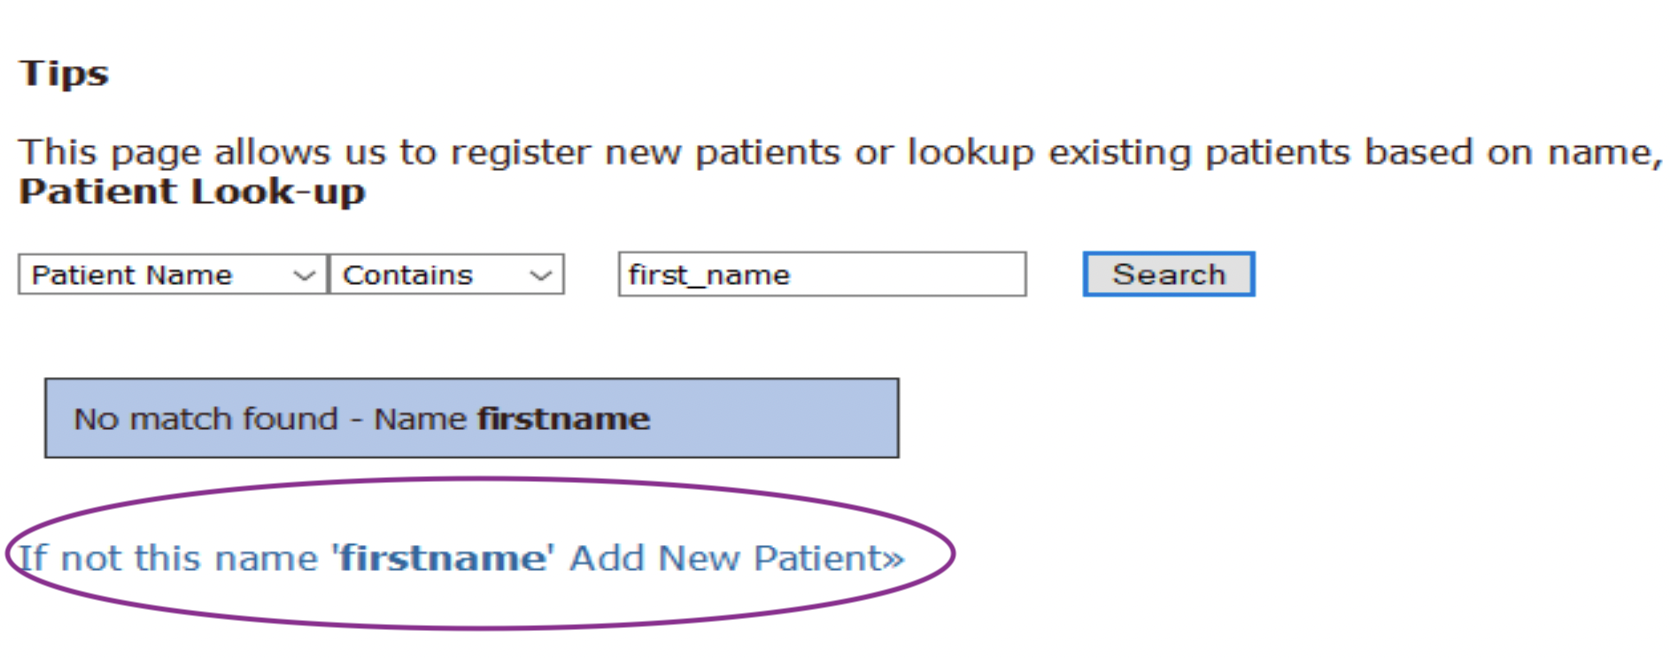
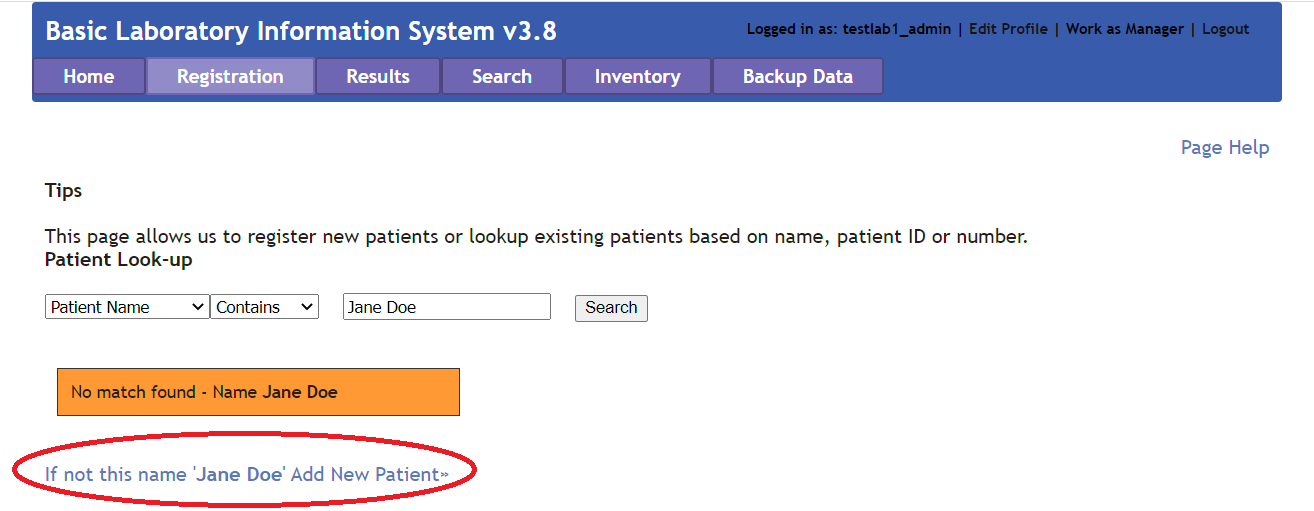
updated faq with new ui images & fixed one ?

diff --git a/docs/faq.md b/docs/faq.md
@@ -9,26 +9,25 @@
 ### Q: How do I look up a patient in our system?
 <b>A</b>: Navigate to the Registration tab and search for the patient by name, number, or ID.
 
-![patient_search_screenshot](images/patient_search.jpg)
+<img src="images/patient_search.png" width="70%"/>
 
 ### Q: How do I add a new patient?
 <b>A</b>: To add a new patient, navigate to the Registration tab. Do not enter anything into the search bar and click 'Search'. You will see an option to add new patient appear. Click the link to proceed. 
 
-![patient_search_screenshot](images/add_patient.png)
+<img src="images/add_patient.png" width="70%" />
 
 ### Q: How do I add a new Specimen to a patient?
 <b>A</b>: After pulling open the patient's profile, click the 'Register New Specimen' hyperlink on the righthand side. 
 
-![new_specimen_screenshot](images/patient_profile.png)
+<img src="images/patient_profile.png" width="70%" />
 
 ### Q: How do I configure BLIS to upload data to the central web instance [Manager View Only]?
 <b>A</b>: In the Manager view, naviate to the Lab Configuration Tab, and then BLIS Online. Enter in the IP address of the BLIS server.
 
+### Q: How do I change the language of BLIS?
 
-### Q: Sometimes, I load a page and the button text disappears. What's going on with the UI?
+<b>A</b>: You can change the language to either the English or French version by clicking on the preferred language in the footer menu.
 
-<b>A</b>: We're still working out the bugs with the UI, but chances are, you might need to click on the Default language option at the bottom of the screen.
-
-![blank_ui](images/blank_ui.png)
+<img src="images/language.png" width="70%" />
 
 BLIS has several language options to cater to a diverse community, and we're still working to implement our changes in all of them! Thank you for your patience.
